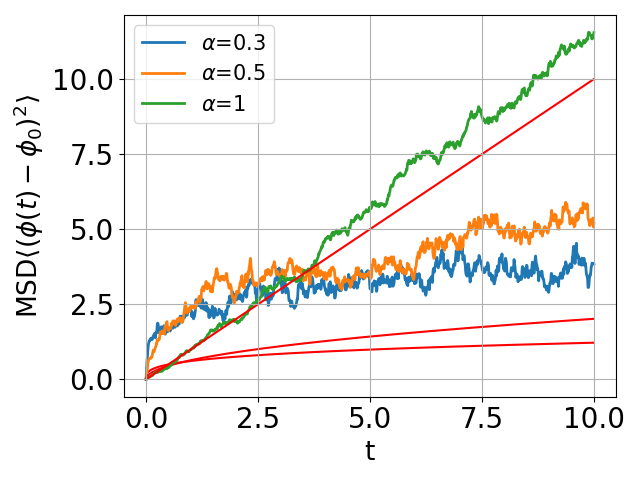
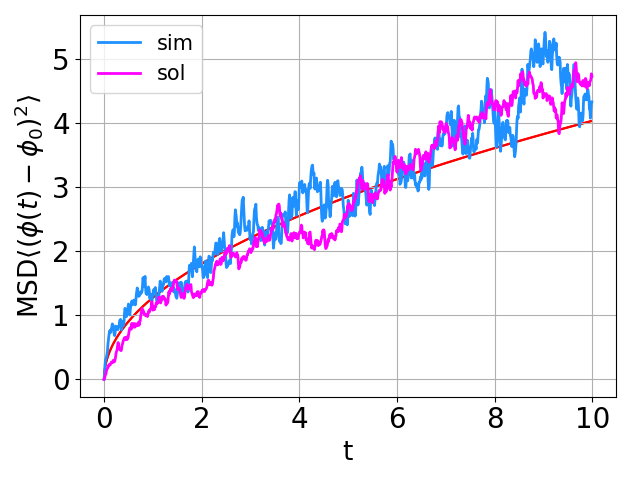
Parallelized trajectory runs.

diff --git a/src/world.py b/src/world.py
@@ -5,20 +5,22 @@ import mittag_leffler as ml
 from fbm import FBM
 import os
 import pickle
+from tqdm import tqdm
+from integration import convolution
 
-class afbm():
+class angular_fbm():
 
     def __init__(self, 
                  realizations,
                  alpha,
                  H,
-                 Tf, 
-                 h = 1e-4,
+                 Tf = 1, 
+                 h = 1e-3,
                  T0 = 0, 
                  phi0=0, 
                  thetaR=1):
         
-        # Parameters
+        # Parameters in
         self.realizations = realizations
         self.alpha = alpha
         self.H = H
@@ -31,112 +33,78 @@ class afbm():
         # Number of time steps
         self.n = int(self.Tf/self.h)
         
+        # Noise amplitude
+        if self.alpha == 1:
+            self.A_H = 1
+        else:
+            self.A_H = 1#1/np.sqrt(H*(2*H-1)*gamma(2*H-1))
+        
         # Initialize matrices
         self.phi_matrix = np.full(self.n, self.phi0)
+        self.phi_matrix_solution = np.full(self.n, self.phi0)
         self.phi_corr = None
+        self.phi_corr_sol = None
 
-    def trajectory(self):
+    def make_B_H(self, method = 'daviesharte'):
+        np.random.seed()
+          
+        f = FBM(n = self.n, hurst = self.H, length = self.Tf, method = method)
+
+        self.B_H = f.fbm()
+        self.dB_H = self.n/self.Tf*np.diff(self.B_H)
+        self.t_BH = f.times()
+        self.t = self.t_BH[:self.n]
+        self.B = self.A_H*self.B_H
+        self.dB = self.A_H*self.dB_H
         
-        # Generate noise 
-        f = FBM(n = self.n, hurst = self.H, length = self.Tf, method = 'daviesharte')
-        # B_H = f.fbm()
-        B_H = f.fbm()/np.sqrt(self.H*(2*self.H-1)*gamma(2*self.H-1))
-        
-        # Loop over timesteps
-        r_trajectory = np.zeros(self.n)
-        phi_prev = self.phi0
-        for time in range(1, self.n):
-            
-            # Sum term
-            sum_term = 0
-            if time-2>=0:
-                for i in range(time-1):
-                    sum_term += (r_trajectory[i]+r_trajectory[i+1])*((self.n-i)**(1-self.alpha)-(self.n-i-1)**(1-self.alpha))
-            
-            # Update rule
-
-            phi_current = - phi_prev + 2*(self.h)**(self.alpha-1)*(self.thetaR*gamma(2-self.alpha)*(B_H[time])) - sum_term
-
-            # Save and update old 
-            r_trajectory[time] = phi_current
-            phi_prev = np.copy(phi_current)
-            
-        return r_trajectory
-
     def cnj(self, k):
         return (k+1)**(1-self.alpha) - k**(1-self.alpha)
-
-    def trajectory_new_discr(self):
+    
+    def trajectory(self):
         
-        # Generate noise 
-        f = FBM(n = self.n, hurst = self.H, length = self.Tf, method = 'daviesharte')
-        B_H = f.fbm()
-        # B_H = f.fbm()/np.sqrt(self.H*(2*self.H-1)*gamma(2*self.H-1))
-        
-        dB_H = self.n/self.Tf*np.diff(B_H)
+        self.make_B_H()
         
         # Loop over timesteps
         r_trajectory = np.zeros(self.n)
-        phi_prev = self.phi0
         for time in range(1, self.n):
             
             # Sum term
             sum_term = 0
             for i in range(1, time-1):
                 
-                sum_term += self.cnj(time-i) * (r_trajectory[i]-r_trajectory[i+1])
+                sum_term += self.cnj(time-i) * (r_trajectory[i]-r_trajectory[i-1])
             
             # Update rule
-            phi_current = phi_prev + ((self.h)**(self.alpha))*(gamma(2-self.alpha)*dB_H[time]) + sum_term
-
-            # Save and update old 
-            r_trajectory[time] = phi_current
-            phi_prev = np.copy(phi_current)
-            
-        return r_trajectory
-    
-    def bi(self, k):
-        
-        return (k+1)**(1-self.alpha) - k**(1-self.alpha)
-    
-    def trajectory_new_discr2(self):
-        
-        # Generate noise 
-        f = FBM(n = self.n, hurst = self.H, length = self.Tf, method = 'daviesharte')
-        B_H = f.fbm()
-        # B_H = f.fbm()/np.sqrt(self.H*(2*self.H-1)*gamma(2*self.H-1))
-        
-        dB_H = self.n/self.Tf*np.diff(B_H)
-        
-        # Loop over timesteps
-        r_trajectory = np.zeros(self.n)
-        phi_prev = self.phi0
-        for time in range(1, self.n):
-            
-            # Sum term
-            sum_term = 0
-            for i in range(1, time-1):
-                
-                sum_term += self.bi(time) * (r_trajectory[i])
-            
-            # Update rule
-            phi_current = ((self.h)**(self.alpha))*(gamma(2-self.alpha)*dB_H[time]) + sum_term
-
-            # Save and update old 
-            r_trajectory[time] = phi_current
-            phi_prev = np.copy(phi_current)
+            coeff_noise = ((self.h)**(self.alpha)) * (gamma(2-self.alpha))
+            r_trajectory[time] = r_trajectory[time-1] + coeff_noise*self.dB_H[time] - sum_term
             
         return r_trajectory
 
     def run(self):
-            for r in range(self.realizations):
-                # print("----Running for alpha", self.alpha, 'realization', r)
+            for r in tqdm(range(self.realizations)):
 
-                # r_trajectory = self.trajectory()
-                r_trajectory = self.trajectory_new_discr()
-                # r_trajectory = self.trajectory_new_discr2()
+                r_trajectory = self.trajectory()
 
                 self.phi_matrix = np.vstack((self.phi_matrix, r_trajectory))
+                
+    def relaxation(self, t):
+        coeff = 1/gamma(self.alpha)
+        result = coeff * (t**(self.alpha-1))
+        return np.where(np.isinf(result), 0, result)
+
+    def trajectory_solution(self):
+        self.make_B_H()
+        # print(self.B_H)
+        return convolution(self.relaxation, self.dB_H, np.linspace(0, self.Tf, self.n))
+                
+    def run_solution(self):
+        
+        for _ in tqdm(range(self.realizations)):
+
+            r_trajectory = self.trajectory_solution()
+
+            self.phi_matrix_solution = np.vstack((self.phi_matrix_solution, r_trajectory))
+            
                 
     def compute_phi_correlation(self):
         
@@ -155,7 +123,7 @@ class afbm():
             self.run()
             
         self.phi_corr = np.mean((self.phi_matrix - self.phi0)**2, axis=0)
-        return self.phi_corr
+        self.phi_corr_sol = np.mean((self.phi_matrix_solution - self.phi0)**2, axis=0)
 
     def compute_pdf(self, time, bins=150):
 

diff --git a/src/script_phi.py b/src/script_phi.py
@@ -8,23 +8,24 @@ import time
 start_time = time.time()
 
 # alphas = [0.1, 0.3, 0.5, 0.7, 0.9, 1]
-alphas = [0.3, 0.5, 1]
+alphas = [0.5]
 # H = 0.1
-realizations = 1000
+realizations = 100
 Tf = 10
 h = 1e-2
-run = True
+run = False
 envs=[]
 
 for alpha in alphas:    
     
     H = (2-alpha)/2 
     
-    env = afbm(realizations=realizations, alpha=alpha, H=H, Tf=Tf, h=h)
+    env = angular_fbm(realizations=realizations, alpha=alpha, H=H, Tf=Tf, h=h)
     
     if run:
         print("----Running for alpha", env.alpha)
         env.run()
+        env.run_solution()
         env.compute_phi_correlation()
         
         env.save(folder="data")
@@ -37,14 +38,15 @@ for alpha in alphas:
             f"Tf_{env.Tf}_"
             f"h_{env.h}.pkl"
         )
-        env = afbm.load(filepath)
+        env = angular_fbm.load(filepath)
     
     envs.append(env)
-
+# print(env.phi_corr_sol)
 fig, ax = plt.subplots()
 for alpha_index in range(len(alphas)):
     env = envs[alpha_index]
     plotting.plot_msd(ax, env.phi_corr, env.h, env.alpha, env.H, 'phi')
+    plotting.plot_msd(ax, env.phi_corr_sol, env.h, env.alpha, env.H, 'phi_sol')
 fig.tight_layout()
 plt.savefig(f"plots/phicorr_r_{realizations}_Tf_{Tf}_h_{h}.png", dpi=100)
 
@@ -60,11 +62,11 @@ plt.savefig(f"plots/phicorr_r_{realizations}_Tf_{Tf}_h_{h}.png", dpi=100)
 # alpha=0.5
 # env = envs[0]
 # fig, ax = plt.subplots()
-# plotting.plot_pdf(ax, env.phi_matrix, time = 100, h = h, H = H, alpha = alpha)
-# plotting.plot_pdf(ax, env.phi_matrix, time = 500, h = h, H = H, alpha = alpha)
-# plotting.plot_pdf(ax, env.phi_matrix, time = 1000, h = h, H = H, alpha = alpha)
+# plotting.plot_pdf(ax, env.phi_matrix, time = int(Tf/(4*h)), h = h, H = H, alpha = alpha)
+# plotting.plot_pdf(ax, env.phi_matrix, time = int(Tf/(2*h)), h = h, H = H, alpha = alpha)
+# plotting.plot_pdf(ax, env.phi_matrix, time = 900, h = h, H = H, alpha = alpha)
 # fig.tight_layout()
-# plt.savefig(f"plots/phipdf_numbag_{numb_agents}_Tf_{Tf}_h_{h}_alpha_{alpha}.png", dpi=100)
+# plt.savefig(f"plots/phipdf_r_{realizations}_Tf_{Tf}_h_{h}_alpha_{alpha}.png", dpi=100)
 
 
 end_time = time.time()

diff --git a/src/parallelization.py b/src/parallelization.py
@@ -1,0 +1,53 @@
+import numpy as np
+import multiprocessing as mp
+
+def to_shared_array(array):
+    shared_array = mp.Array('d', array.size, lock=False)
+    temp = np.frombuffer(shared_array, dtype=array.dtype)
+    temp[:] = array.flatten(order = "C")
+    return shared_array
+
+def to_numpy_array(shared_array, shape):
+    array = np.ctypeslib.as_array(shared_array)
+    return array.reshape(shape)
+
+def  run_parallel(env):
+    """
+    Parallely runs independent Brownian trajectories.
+    
+    Parameters
+    ----------
+    env : env
+        Environment class that defines the type of motion and paramteters
+    compute_single_trajectory : func
+        Function that runs a single trajectory
+
+    Returns
+    -------
+    """
+        
+    batch_size = 10
+
+    # Initialize matrix
+    init_matrix = np.zeros((env.n, env.realizations), dtype = np.float64)  
+
+    # Create multiprocessing array to which the different processes can access to. 
+    # Thanks to temp, we can write a numpy array to a mp array and initialize it in this case.
+    shared_matrix = to_shared_array(init_matrix)    #Returns initialized shared array
+
+    # Create bridge to a nupy vector 
+    stored_matrix = to_numpy_array(shared_matrix, init_matrix.shape)
+
+    lock = mp.Lock()
+    # execute in batches
+    for r in range(0, env.realizations, batch_size):
+        # execute all tasks in a batch
+        processes = [mp.Process(target = env.trajectory, 
+                                args=(env, p, stored_matrix, lock)) for p in range(r, r + batch_size)]
+
+        # start all processes
+        for process in processes:
+            process.start()
+        # wait for all processes to complete
+        for process in processes:
+            process.join()

diff --git a/src/plotting.py b/src/plotting.py
@@ -6,7 +6,8 @@ size_ticks = 20
 marker_size = 10
 
 msd_style = {
-    'phi': dict(c = 'dodgerblue', lw=2, label = 'sim')  
+    'phi': dict(c = 'dodgerblue', lw=2, label = 'sim'),  
+    'phi_sol': dict(c = 'magenta', lw=2, label = 'sol')  
 }
 
 # -- FUNCTIONS --
@@ -31,10 +32,10 @@ def plot_msd(ax, msd, delta_t, alpha, H, variable):
 
     time = np.arange(0,len(msd))*delta_t
 
-    ax.plot(time, msd, lw=2, zorder=1, label=fr'$\alpha$={alpha}')
+    ax.plot(time, msd, **msd_style[f'{variable}'])
     # ax.loglog(time, msd, lw=2, zorder=1, label=fr'$\alpha$={alpha}')
     # print((gamma(2*H)**2/(2*H*(gamma(H+1/2)**2))))
-    ax.plot(time, (gamma(2*H)**2/(2*H*(gamma(H+1/2)**2)))*time**(alpha), c='red', zorder=1)
+    ax.plot(time, ((gamma(2*H)**2)/(H*(gamma(H+1/2)**2)))*time**(alpha), c='red', zorder=1)
 
     ax.set_xlabel('t', fontsize = axis_fontsize)
     ax.tick_params(axis='both', labelsize=size_ticks)
@@ -49,10 +50,10 @@ def plot_pdf(ax, phi_matrix, time, h, H, alpha, phi0=0):
     trajectories_points.hist(ax=ax, bins=20, alpha=0.6, label=rf't={time}', density=True, zorder=0)
     
     phi_range = np.arange(np.min(trajectories_points), np.max(trajectories_points), 1e-3)
-    phi_range = np.arange(-1, 1, 1e-2)
+    # phi_range = np.arange(-1, 1, 1e-2)
     propagator = phi_propagator(phi_range, time*h, H, alpha)
     
-    # ax.plot(phi_range, propagator, lw=2, zorder=1, label=rf't={time}')
+    ax.plot(phi_range, propagator, lw=2, zorder=1, label=rf't={time}')
     
     
     ax.legend(fontsize = legend_size)

diff --git a/src/integration.py b/src/integration.py
@@ -1,0 +1,31 @@
+import types
+import numpy as np
+
+def convolution(f, g, t):
+    """Computes the convolution between an analytical function f(x) and a secondary function
+        that can be: another analytical function or a time series (e.a. noise series) 
+
+    Args:
+        f (function): main function to convolve
+        g (function or ndarray): secondary function to convolve
+        t (ndarray): vector with the domain of integration
+
+    Returns:
+        ndarray: result of the convolution along the domain t
+    """
+    N = len(t)
+    if isinstance(g, np.ndarray):
+        g_eval = g
+    elif isinstance(f, types.FunctionType):
+        g_eval = g(t)
+    dt = t[1] - t[0]
+    conv = np.zeros(N)
+    for i in range(N):
+        dt = t[1] - t[0]
+        g_eval_i = g_eval[:i+1] # subset of g(t)
+        t_i = t[:i+1] # subset of the time vector
+        f_eval = f(t[i] - t_i)
+        integrand = f_eval * g_eval_i
+        conv[i] = np.trapezoid(integrand, dx = dt)
+            
+    return conv
